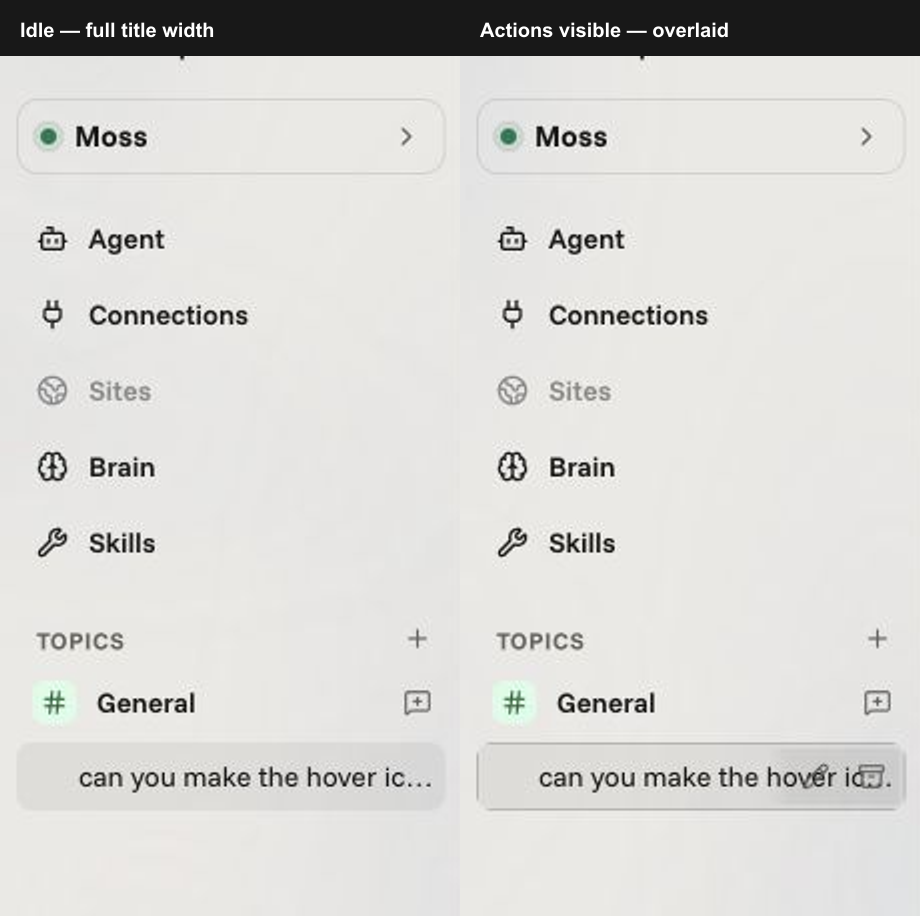
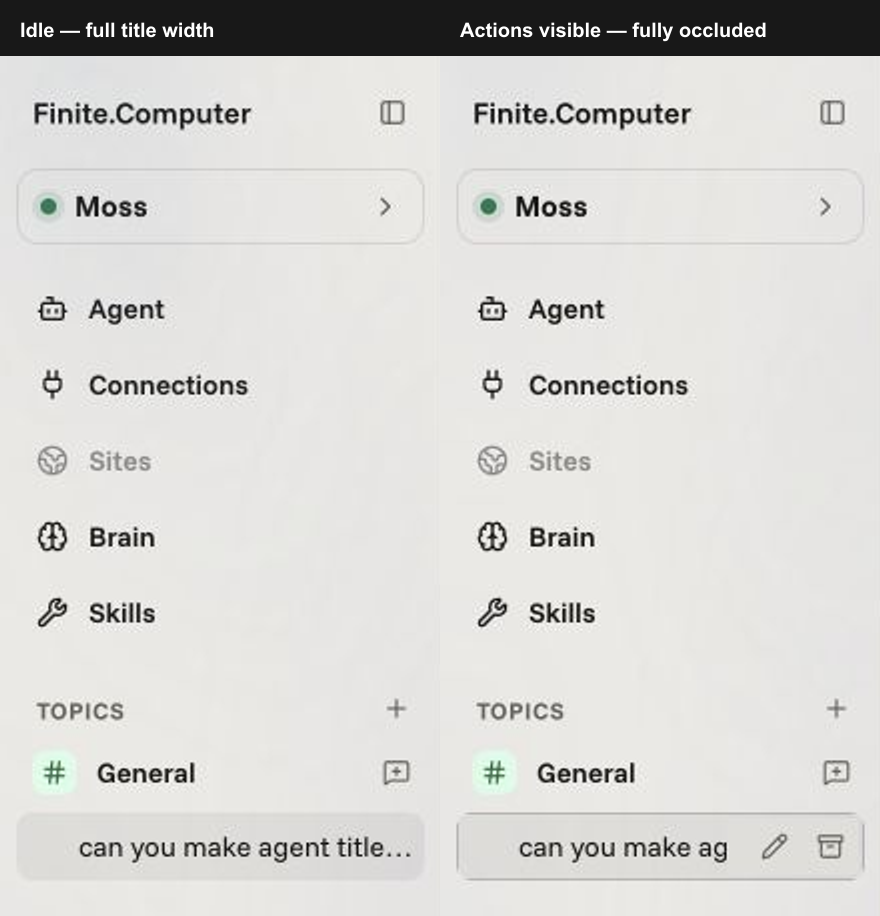
dashboard: fully occlude chat titles under actions

diff --git a/finitecomputer-v2/apps/dashboard/src/styles/ocean-shell.css b/finitecomputer-v2/apps/dashboard/src/styles/ocean-shell.css
@@ -4275,7 +4275,7 @@ button.finite-chat__site-switcher:hover {
   min-width: 0;
   flex: 0 0 auto;
   align-items: center;
-  background: linear-gradient(90deg, transparent, var(--bg-hover) 10px);
+  background: color-mix(in srgb, var(--bg-sidebar) 94.5%, var(--text-primary) 5.5%);
   padding-left: 10px;
   opacity: 0;
   pointer-events: none;
